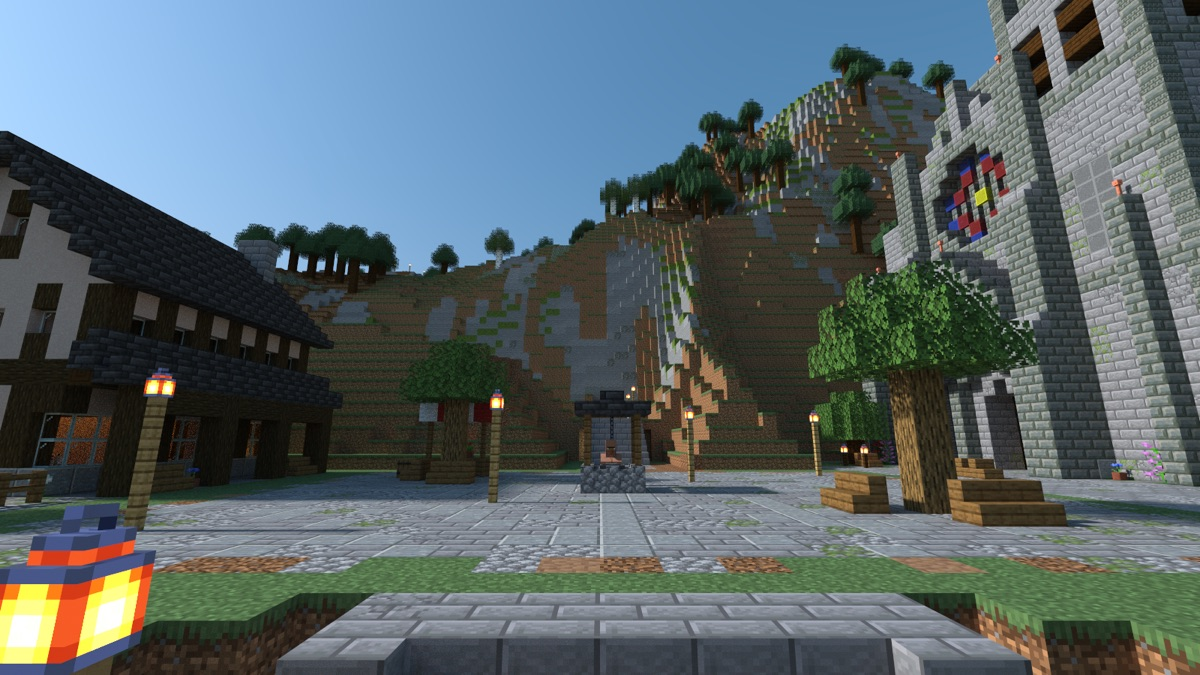
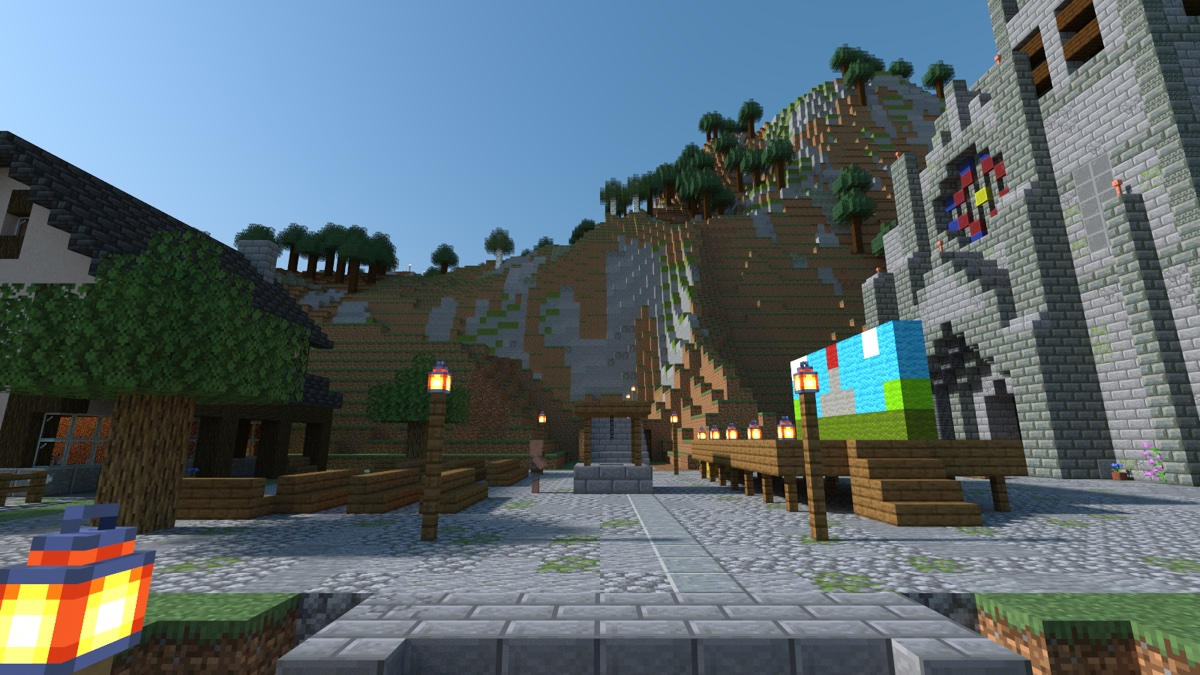
docs(foot-of-the-mountain): steps 8, 8b, 9 and 12 recorded on the build that ships; the square's storybook view redrawn
Build e0e78f7e... (394 s, 2.81 GB, macOS arm64): DW0210 0 dark of
111808, 4025 attached held. The two Scene 7 cameras frame the stage
unmoved. The detail table records 11 attempts over 9 places, every
commit exit 0. Visual review: 955 shots in 209 s on Metal; threshold
re-read on 28 frames, 18 trade misses left (from 27 on those frames),
each named with its cause; the route over open ground traced to the
router's cost and the compass's straight aim, with file:line. The
storybook's square picture is redrawn from its camera on this build.

Claude-Session: https://claude.ai/code/session_019qiQFhKtTpTbYnn9NZBbSd

Changed region(s): [[0.0, 0.3422, 1.0, 0.9644], [0.0, 0.7467, 0.0617, 0.84]]

diff --git a/campaigns/foot-of-the-mountain/GENERATION.md b/campaigns/foot-of-the-mountain/GENERATION.md
@@ -44,11 +44,13 @@ The sidecar is not written yet: two runs of `i18n-translate.py` against the conf
 - `DW0307`: the happy ghast's two marks stood four courses in the air, where a `move-npc` walk can neither start nor end. Both marks now stand on the ground of the same plots (`npcs.json`, 15 cast and move offsets in `quests.json`).
 - `DW0210` stopped the first build: the finale's `set-time` to the setting sun is judged at the night sky (4), and 5155 reachable walkable cells measured below light 3 (5100 in 309 regions of the island's ground outside every plot, 55 in 24 detailed places). The finale now plays at `{"daytime": 11867}`, the latest hour judged as day (`DESIGN.md`, *The hour*), and the two Scene 7 pictures are redrawn at it; the build measures 0 dark cells.
 - `DW0430` on `node/flight-1` and `node/flight-5`, and `DW0450` on Bernt, are step 9's (below).
-- The build that ships exits 0: `DW0210` 0 dark of 111802; 4017 attached blocks held, 0 dropped; 14 watchers drawable; the pacing line measures 2376 blocks of route, about 40 minutes at the metrics table's rate, against `target_minutes` 150 — the rest of the evening is conversation, which the route does not measure.
[1 lines of base64/hex data omitted]
 
 ## Showcase cameras (step 8b)
 
 17 cameras, one per approved picture, each estimated from its picture and moved against the build's previews until the subject was in frame. Three were moved again on the build's refusals: `lighthouse-near` (lens in a wall), `from-the-castle` (`DW0956`, subject 166 blocks away past the 160-block view), `plan` (`DW0724`, lens above the build height). No camera states an `after`: the world after `obj/take-places` is the world at load block for block (`DW0721`).
+
+The square now carries the stage (step 9), and the two Scene 7 cameras were drawn again against the build that ships without being moved: `stage-near` frames the stage's boards, lanterns and painted flats with the cathedral front behind them; `square-far-evening`, from the cathedral steps, frames the stage from its back across the benches. The two pictures disagree on which way the stage faces; the build follows the near picture.
 
 ## Detail (step 9)
 
@@ -60,6 +62,24 @@ Handouts are regenerable files under `.out/handouts/`. Wave bound as `allocation
 | `node/flight-5` | 1 | `.out/handouts/flight-5/handout-1.md` | 117425 | 756 s | `DW0430` | 3 (battery: `DW0450` on `npc/bernt`) |
 
 `DW0450`: Bernt's mark stood inside a stone mass of the castle piece; it moved to the clear side of the same anchor (`+[-3, 0, 0]`). Adjustments in this step: 2 bodies moved inside their plots (Dumpling, Bernt), 0 stations changed, 2 places re-authored.
+
+A second pass repaired what steps 10 and 12 found on the build at `c13baa36…`. Each finding went into the place's node `note` (the stage, and the five doorways) and into its handout as the refusal (`--from`, a file stating the finding: the written world's cells, the threshold frames and the census entries, since `handout.py` writes no handout for a program `detail --check` passes). Wave bound as `allocation --all` printed it: `concurrency: 0 = min(0, max(1, 10 / 2))`; two authors ran at once.
+
+| place | attempt | handout | tokens | duration | repaired | commit exit |
+|---|---|---|---|---|---|---|
+| `node/bakery` | 1 | `.out/handouts/bakery/handout-1.md` | 95462 | 110 s | `DW0955` | 0 |
+| `node/cottages` | 1 | `.out/handouts/cottages/handout-1.md` | 80909 | 108 s | `DW0955` | 0 |
+| `node/square` | 1 | `.out/handouts/square/handout-1.md` | 120892 | 394 s | `DW0845` (the stage) | 0 |
+| `node/harbour` | 1 | `.out/handouts/harbour/handout-1.md` | 82448 | 74 s | `DW0955` | 0 |
+| `node/weaver` | 1 | `.out/handouts/weaver/handout-1.md` | 90929 | 514 s | threshold read | 0 |
+| `node/netloft` | 1 | `.out/handouts/netloft/handout-1.md` | 111043 | 925 s | threshold read | 0 |
+| `node/townhall` | 1 | `.out/handouts/townhall/handout-1.md` | 82965 | 397 s | threshold read | 0 |
+| `node/boatwright` | 1 | `.out/handouts/boatwright/handout-1.md` | 96376 | 507 s | threshold read | 0 |
+| `node/carpenter` | 1 | `.out/handouts/carpenter/handout-1.md` | 106755 | 1017 s | threshold read | 0 |
+| `node/weaver` | 2 | `.out/handouts/weaver/handout-2.md` | 83612 | 307 s | `DW0955` | 0 |
+| `node/boatwright` | 2 | `.out/handouts/boatwright/handout-2.md` | 106792 | 596 s | threshold read | 0 |
+
+Adjustments in this pass: 1 station added (`anchor/stage`, the square), 4 marks moved inside their plots (the square's `node-square` and `spawn`, the weaver's, the net-maker's, the boatwright's), 9 places re-authored, no shell changed.
 
 ## Ladder (step 10)
 
@@ -95,11 +115,11 @@ No finding: every flag-gated dialogue option and epilogue line is licensed by a 
 
 ## Visual review (step 12)
 
-`delvec frames` on the build that ships: `renderer: lumenwright 0.3.0, backend cpu (16 threads) (auto: fell back to cpu — no usable GPU (only a software Gpu adapter is available))`; 958 shots (637 POV, 190 interior, 116 threshold, 14 NPC, 1 spawn), 5:11 wall on the remote.
+`delvec frames` on the build that ships (`e0e78f7e…`): `renderer: lumenwright 0.3.0, backend apple m2 pro (metal) (auto)`; 955 shots (634 POV, 190 interior, 116 threshold, 14 NPC, 1 spawn), 209 s wall, 3.04 GB peak.
 
-- **POV sequence, in route order.** Inside the town the walk reads as the town: flagged streets, flights, lit lamps, the shop counters with their keepers. Between places the proven route leaves the streets and crosses open ground — the terraced flanks of the mountain behind the cathedral and the castle walls, and the grass between the lower plots and the harbour — so long runs of frames show turf, rock and sky rather than the road the design draws. Finding: the town's ground outside its plots is walkable and shorter than the streets; whether a player is steered along the streets is a site-plan question, outside this round's remit.
-- **Scene 7 against its pictures.** The square holds the well, the benches and the two trees; the stage the pictures show is not built. Finding at `node/square`'s program, outside this round's remit.
-- `threshold read: 116 frame(s), trade misses 27, front misses 0, thing misses 0, holding misses 0`. The 60 way frames read as streets, flights and roads. Part frames whose trade cannot be named from the picture alone: cathedral 4 (a wall fills the frame), inn 3, potter 3, harbour 3, lighthouse 3, weaver 3 and net loft 2 (a keeper's back fills the frame), townhall 2, carpenter 2, boatwright 2. Findings at those places' programs, outside this round's remit.
+- **Scene 7 against its pictures.** The square holds the stage the two pictures show: boards on trestles on its east half, lanterns along the front edge, painted flats at the back, rows of benches facing it on the west half, the well and the two trees kept. The near picture is answered; the far picture is answered from the stage's back (above, *Showcase cameras*).
+- **The route between places.** The proven route still leaves the streets: from the square to the castle 204 of 424 route columns lie outside every place's box and only 21 on a way, and from the castle to the lighthouse 488 of 650 lie outside every box and none on a way (the thinned waypoints of `validation/critical-path-waypoints.json` against `delvec allocation --all`'s boxes). Cause, read in the engine at `delvec--v1.15.0`: the router is an A* over every standable cell of the assembled world (`crates/delvec/src/compiler/nav/route/mod.rs:129-196`, `find_path_avoiding`), whose step cost is one flat step plus 2 per sixteenth of height change (`crates/delvec/src/compiler/nav/world/body.rs:1348-1359`) and knows nothing of ways, so the terraced flanks the island's terrain lays outside every plot (1-block steps, walked by jump edges) are cheaper than the zig-zag road. The bot, the POV frames (`crates/delvec/src/compiler/emit/routes.rs:1118`) and every route proof walk that one route. A player is led by the compass, which points straight at the objective's place (`crates/delvec/src/compiler/emit/guidance.rs:1407-1416`, a `lodestone_tracker` target), and by the streets they see; nothing stands between the streets and the open ground, so a player who follows the needle crosses the same flanks. The fix is the terrain outside the plots (the site plan's ground, `terrain/island.png`) or the router, neither of which is a station or furnishing: not changed here.
+- **Threshold read**, re-read on the 28 frames of the places this pass touched or that missed before: `threshold read: 28 frame(s), trade misses 18, front misses 0, thing misses 0, holding misses 0`. Repaired: weaver 3 (the loom first from the door), net loft 2 (the hull and the hung nets), guildhall 2 (the arcade's market), carpenter 2 (bench, log pile, plank stack). Still missed: boatwright 2 after two attempts (the shed frame shows a fire and a cauldron, the yard frame a block-built hull at a slant that does not read as a boat); cathedral 4 (the eye on the square stands before a buttress of the west front), inn 3 (a porch wall and window), potter 3 (a closed door and a wall of the house), harbour 3 (the harbourmaster's house corner stands between the quay crossing and the boats), lighthouse 3 (the cottage's side wall): each is the shell or the plot's arrangement facing the crossing, outside this pass. The square's threshold reads as a square (well, benches, stage).
 
 ## Toolchain
 
